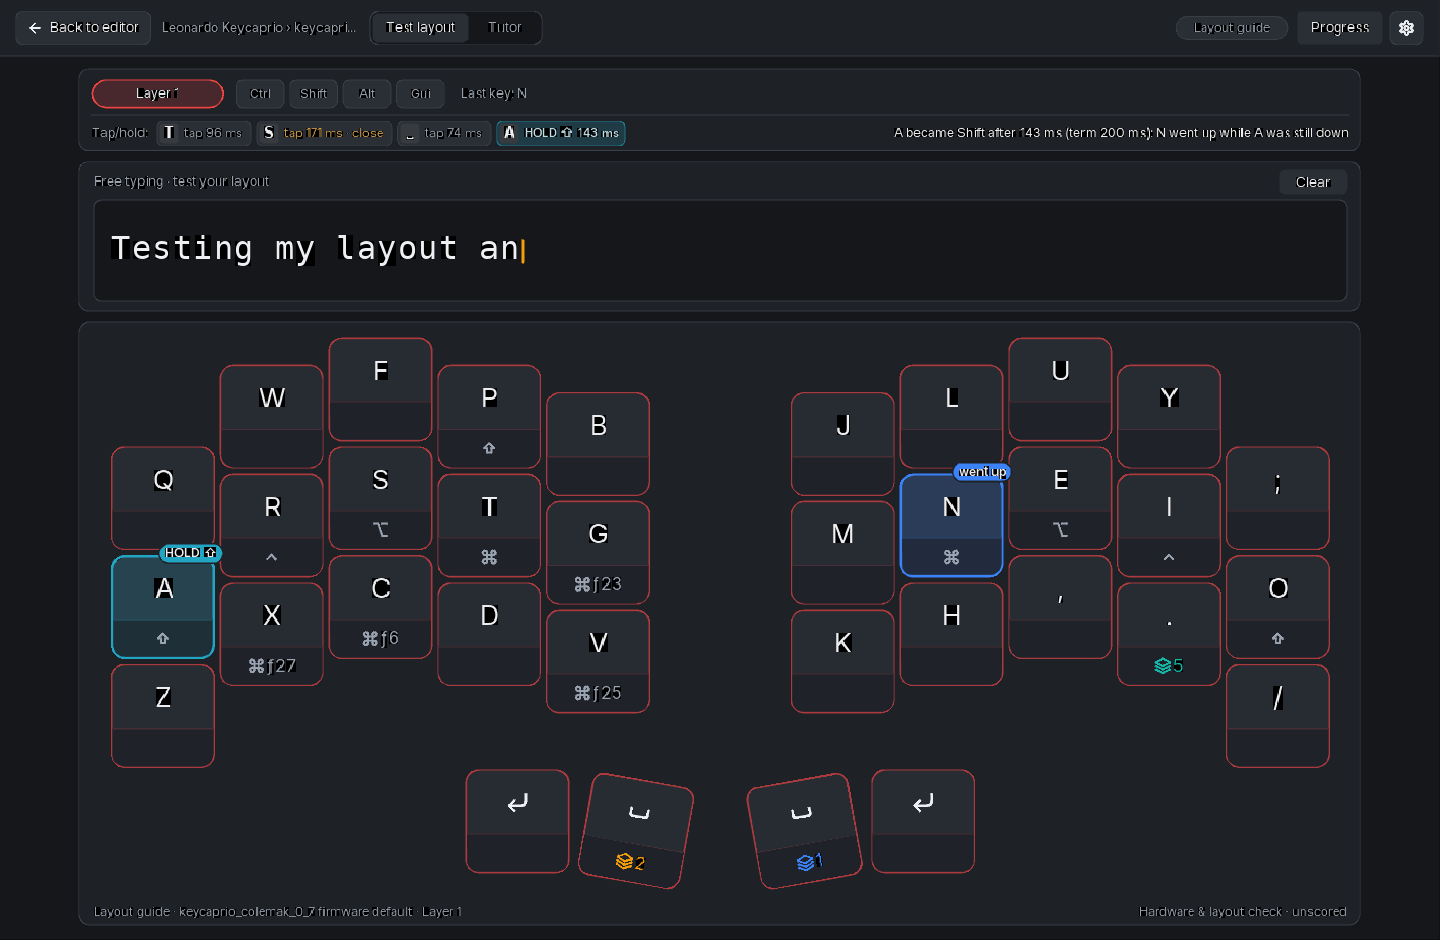
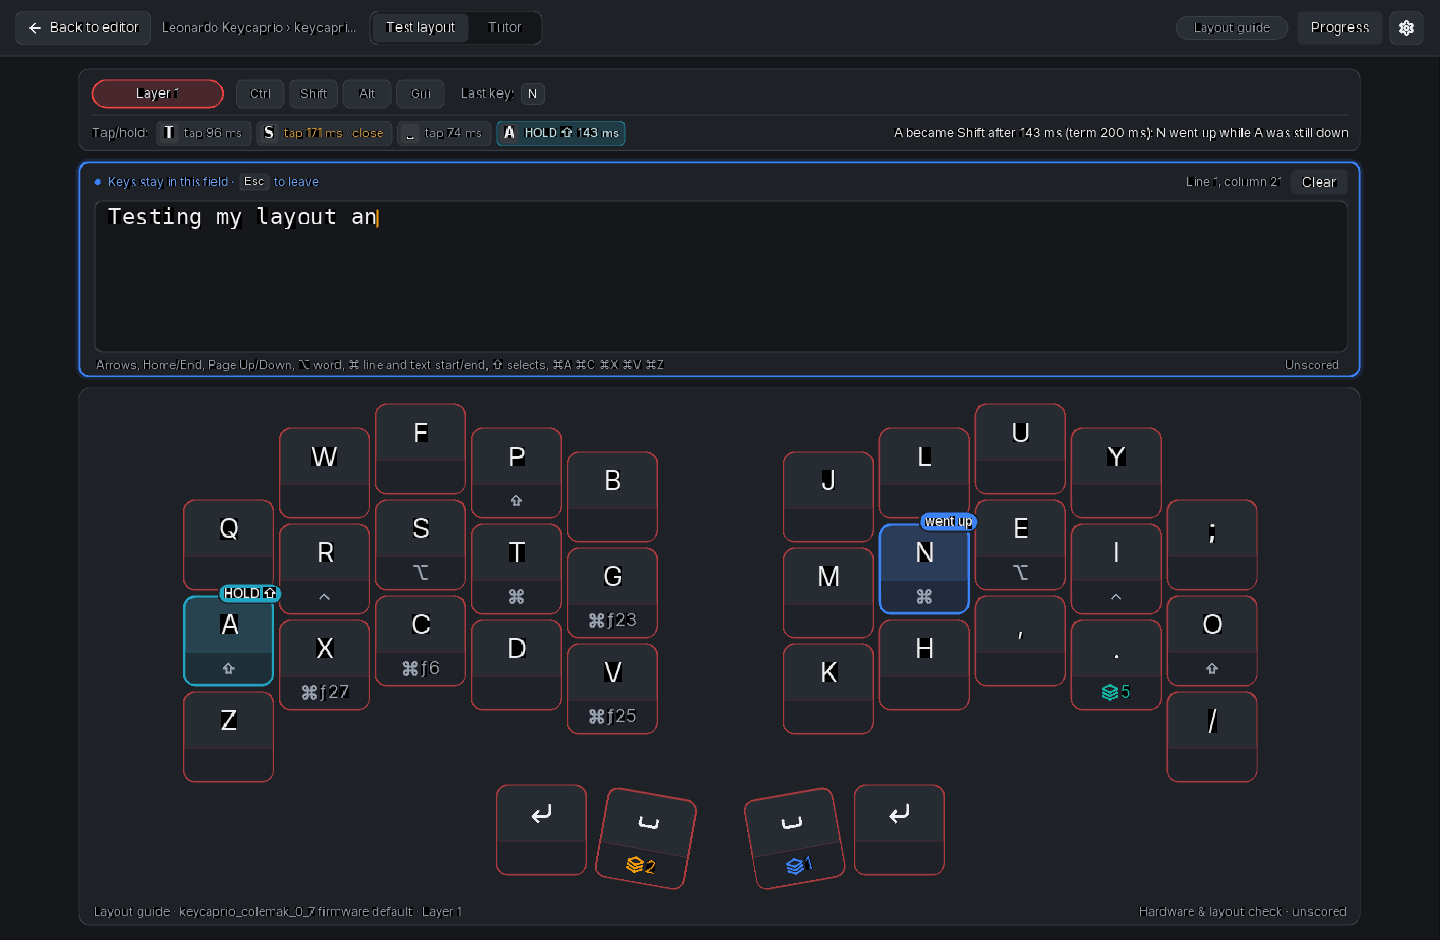
Document the Test layout text field and refresh its screenshots
Describe how the field holds the keys, the keys it understands on macOS
and Windows/Linux, Esc and coming back, and which shortcuts the
operating system handles before the application can catch them. Add a
hardware checklist step for navigating text with the layout's
navigation layer, and the 24-scene, 96-frame gallery.

diff --git a/companion/docs/typing-practice.md b/companion/docs/typing-practice.md
@@ -5,7 +5,7 @@ layout freely or switch to the adaptive 6-stage Typing Tutor.
 
 The top bar provides a **Test layout | Tutor** segmented switch. Opening from
 **Try it out** always lands in **Test layout** first so you can immediately
-verify switches, layers, holds, combos, and free-type in the scratchpad before
+verify switches, layers, holds, combos, and free-type in its text field before
 switching to **Tutor**.
 
 ## Adaptive Typing Tutor
@@ -269,11 +269,57 @@ active profile.
 
 Opening **Try it out** lands directly in **Test layout**. It pairs the exact
 shared Editor keyboard view with a live telemetry bar (active layer, held
-modifiers, simultaneous presses, and triggered 2-key combos) and a calm
-free-typing scratchpad where you can type anything you want—completely unscored
-and unpersisted.
+modifiers, simultaneous presses, triggered 2-key combos and the last key) and
+a multi-line text field where you can type anything you want—completely
+unscored and unpersisted. The field holds up to 8 KB of text; once it is full
+it takes no more instead of dropping the start.
 
-![Test layout mode with free-typing scratchpad, live layer/modifier telemetry, and shared Editor keyboard view](screenshots/typing-practice/test-keys.png)
+![Test layout with the text field holding the keys: several lines of code, "target" selected with ⌥⇧→](screenshots/typing-practice/test-keys.png)
+
+### Keys stay in the field
+
+Test layout opens with the field **holding the keys**: an accent border and
+"Keys stay in this field · Esc to leave" above the text. Every key you press
+then stays in the field, so you can try your layout's navigation layer the way
+you would use it in an editor:
+
+| Keys (macOS) | Keys (Windows/Linux) | What they do |
+| --- | --- | --- |
+| ← → ↑ ↓ | ← → ↑ ↓ | Move by character and by row (long lines wrap) |
+| Home / End, ⌘← / ⌘→ | Home / End | Line start / end |
+| Page Up / Page Down | Page Up / Page Down | Move by the rows in view |
+| ⌥← / ⌥→ | Ctrl+← / Ctrl+→ | Word left / right |
+| ⌘↑ / ⌘↓, ⌘Home / ⌘End | Ctrl+Home / Ctrl+End | Text start / end |
+| ⇧ with any move | Shift with any move | Extend the selection |
+| ⌫ / ⌦, ⌥⌫ / ⌥⌦, ⌘⌫ / ⌘⌦ | Backspace / Delete, Ctrl+Backspace / Ctrl+Delete, Ctrl+Shift+Backspace / Ctrl+Shift+Delete | Delete a character, a word, to the line start / end |
+| Enter, Tab | Enter, Tab | New line, four spaces |
+| ⌘A ⌘C ⌘X ⌘V | Ctrl+A Ctrl+C Ctrl+X Ctrl+V | Select all, copy, cut, paste |
+| ⌘Z, ⇧⌘Z | Ctrl+Z, Ctrl+Y or Ctrl+Shift+Z | Undo, redo |
+
+Clicking places the cursor (⇧-click and dragging select), the wheel scrolls,
+and the header shows the cursor's line and column. **Clear** empties the
+field; undo brings the text back. The telemetry bar names every key with its
+modifiers and what it did, such as "Last key: ⌥⇧← select word left". Other
+shortcuts the application would otherwise react to, such as ⌘D or Tab between
+the controls, do nothing while the field holds the keys and only show as the
+last key.
+
+Shortcuts the operating system handles before the application sees them
+cannot be caught: on macOS ⌘Tab, ⌘Space, Mission Control and the application
+menu's ⌘Q (Quit), ⌘H and ⌥⌘H (Hide), ⌘M (Minimize), ⌘W (Close window) and
+⌃⌘F (Full Screen); on Windows Alt+Tab, Alt+F4 and the Windows key; on Linux
+whatever the desktop reserves. Test those keys elsewhere.
+
+### Leaving the field
+
+**Esc** lets go of the keys: the border turns plain, the cursor hides and the
+header reads "Free typing · click here or press Enter to type again". Tab and
+the arrow keys then move between the controls as usual. Click into the text,
+or press **Enter** while no button has the focus, to hold the keys again; the
+text, cursor and selection are kept. While Progress, Settings or another sheet
+is open, Esc closes it first and the field keeps holding the keys.
+
+![Test layout after Esc: the field let go of the keys and Tab moves between the controls](screenshots/typing-practice/test-layout-released.png)
 
 ## Input Source
 
@@ -310,8 +356,8 @@ zig build test-practice -Donly=practice
 ```
 
 Run the full desktop test suite and headless SDL GUI fixtures (including
-`--offline-practice-frames 3` and the 22-scene
-Dark/Light `--offline-tutor-frames 88` gallery):
+`--offline-practice-frames 3` and the 24-scene
+Dark/Light `--offline-tutor-frames 96` gallery):
 
 ```sh
 zig build test-desktop -Ddesktop
@@ -334,11 +380,11 @@ changes, so they never show an older version:
 zig build doc-screenshots -Ddesktop
 ```
 
-To render native GPU screenshots of the same 22-scene Dark/Light gallery into
+To render native GPU screenshots of the same 24-scene Dark/Light gallery into
 `companion/.zig-cache/typing-practice-gallery/`:
 
 ```sh
-zig build -Ddesktop && ./zig-out/bin/zigmkay-companion --native-tutor-frames 88
+zig build -Ddesktop && ./zig-out/bin/zigmkay-companion --native-tutor-frames 96
 ```
 
 ## Manual hardware checklist
@@ -356,7 +402,7 @@ LK07 running the same layout):
 4. Test layout: every key lights up when pressed; holding a layer key switches
    the shown layer; held modifiers appear in the telemetry bar.
 5. Test layout: a two-key combo shows "Combo keys held" and the character lands
-   in the scratchpad.
+   in the text field.
 6. Test layout with home-row modifiers: roll from a home-row modifier into a
    key of the other hand (for example A then N, releasing N first). The
    telemetry bar's Tap/hold row shows a teal `HOLD ⇧` chip and explains it, and
@@ -364,19 +410,27 @@ LK07 running the same layout):
    a Tutor lesson: after the lesson the "became Shift" notice appears, and
    **Progress → Tap/hold keys** lists the key. With an older firmware the row
    reads "needs current firmware on the keyboard".
-7. Tutor Stage 2: finish a lesson; the next one appears at once with the last
+7. Test layout text field: type or paste a few lines, then move through them
+   with only the layout's navigation layer: arrows, Home/End, Page Up/Down,
+   word jumps (⌥ or Ctrl) and line and text jumps (⌘ or Ctrl), each once with
+   Shift to select; then cut, paste and undo. The cursor and selection follow,
+   the field scrolls with the cursor, and the telemetry bar names each key
+   (for example "⌥⇧← select word left"). A shortcut such as ⌘D only shows as
+   the last key. Esc lets go (plain border, Tab moves between the controls);
+   Enter or a click takes the keys back with the text and cursor unchanged.
+8. Tutor Stage 2: finish a lesson; the next one appears at once with the last
    lesson in the metrics row and on the keyboard. Skip a letter and keep
    typing: after three more letters the Tutor moves on and counts one mistake.
-8. Tutor Stage 3 and 5: the hint shows the Shift, layer or combo keys that the
+9. Tutor Stage 3 and 5: the hint shows the Shift, layer or combo keys that the
    layout really uses for the highlighted character.
-9. Quit and restart the application: unlocked letters, streak and round count
-   are unchanged.
-10. Connect the second board with the same layout: the same progress is shown
+10. Quit and restart the application: unlocked letters, streak and round count
+    are unchanged.
+11. Connect the second board with the same layout: the same progress is shown
     and no key statistics are reset. If a practised character sits elsewhere
     there, the question appears once, only before a lesson starts; choose
     **Keep all**, then switch boards twice more: nothing is asked again.
-11. **Settings → Reset profile progress** resets only the active profile; a
+12. **Settings → Reset profile progress** resets only the active profile; a
     different layout type keeps its progress.
-12. **Settings → Reset characters…**: pick two letters and confirm. Only
+13. **Settings → Reset characters…**: pick two letters and confirm. Only
     those start over, one becomes the focus key, the unlocked count stays, and
     all of it is the same after a restart.
